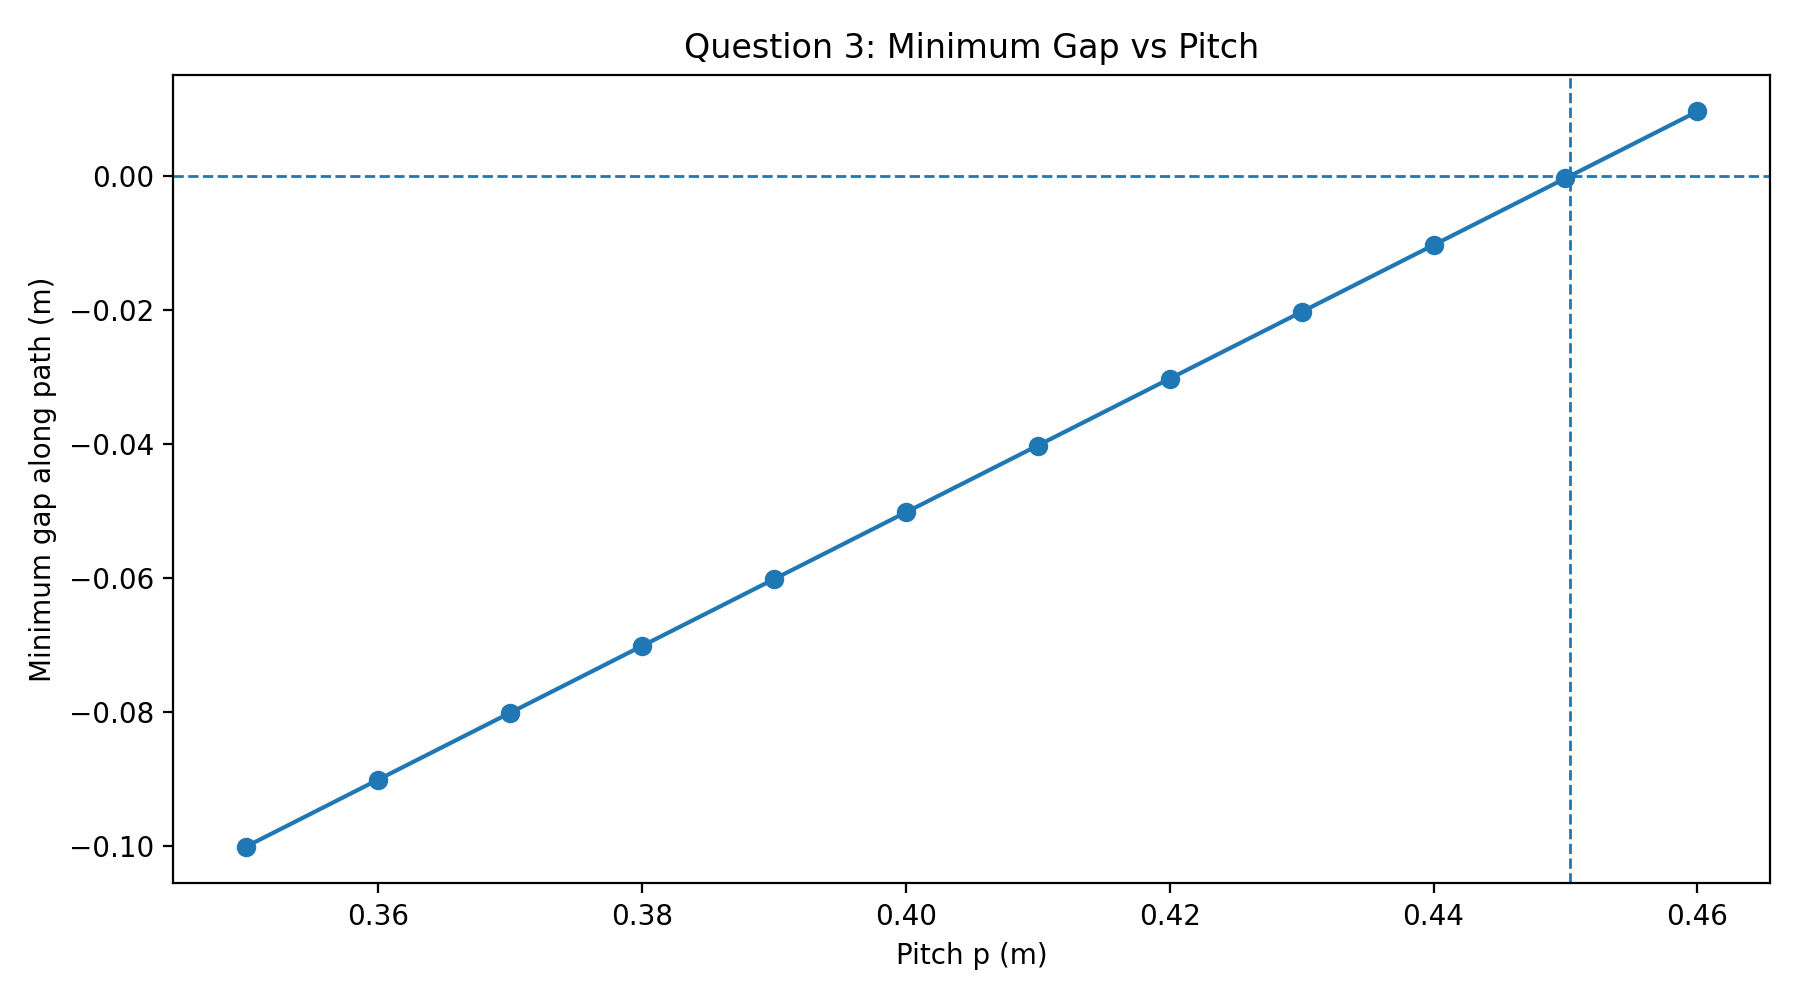
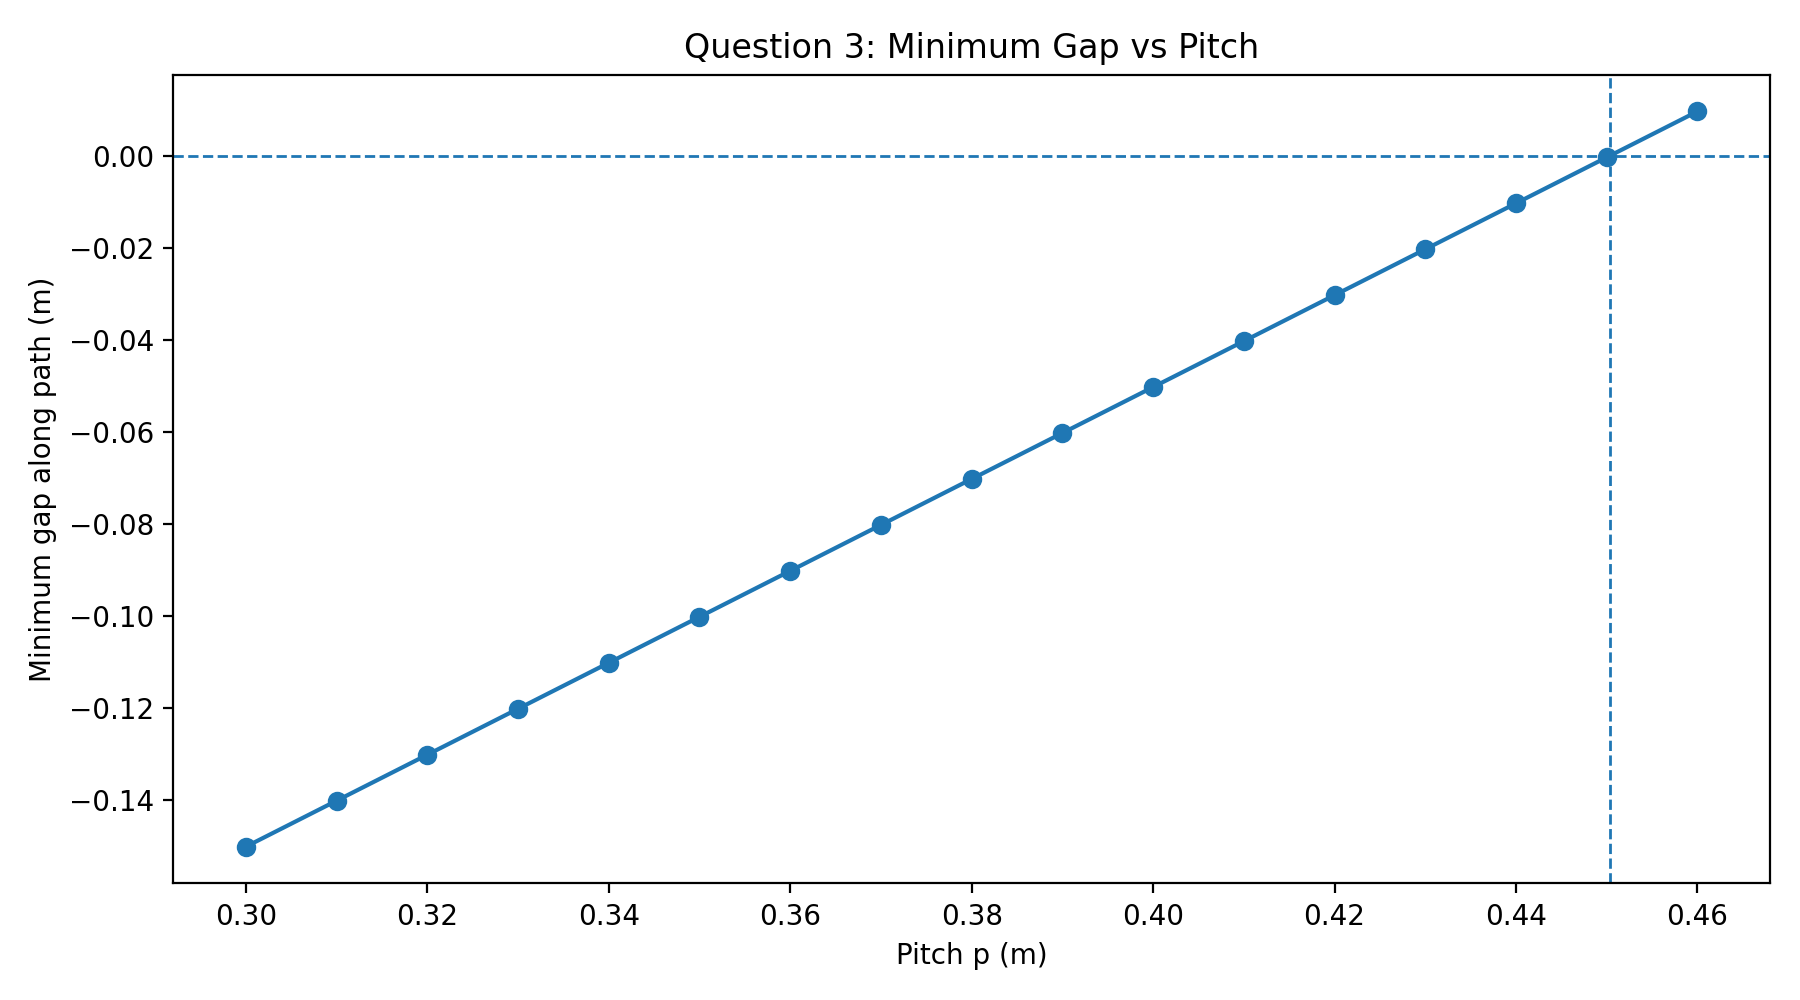
更改了一下下界，找了个有意义的下界

diff --git a/question3.py b/question3.py
@@ -37,7 +37,7 @@ TURNING_RADIUS = 4.5
 INITIAL_THETA = float(dragon_data.QUESTION1_INITIAL_THETA)  # 32π，即第 16 圈
 
 # 螺距粗扫描范围，单位 m。第三问结果在 0.45m 附近。
-PITCH_SCAN_MIN = 0.35
+PITCH_SCAN_MIN = 0.30##以板凳宽度作为下界
 PITCH_SCAN_MAX = 0.60
 PITCH_SCAN_STEP = 0.01
 PITCH_TOL = 1e-6